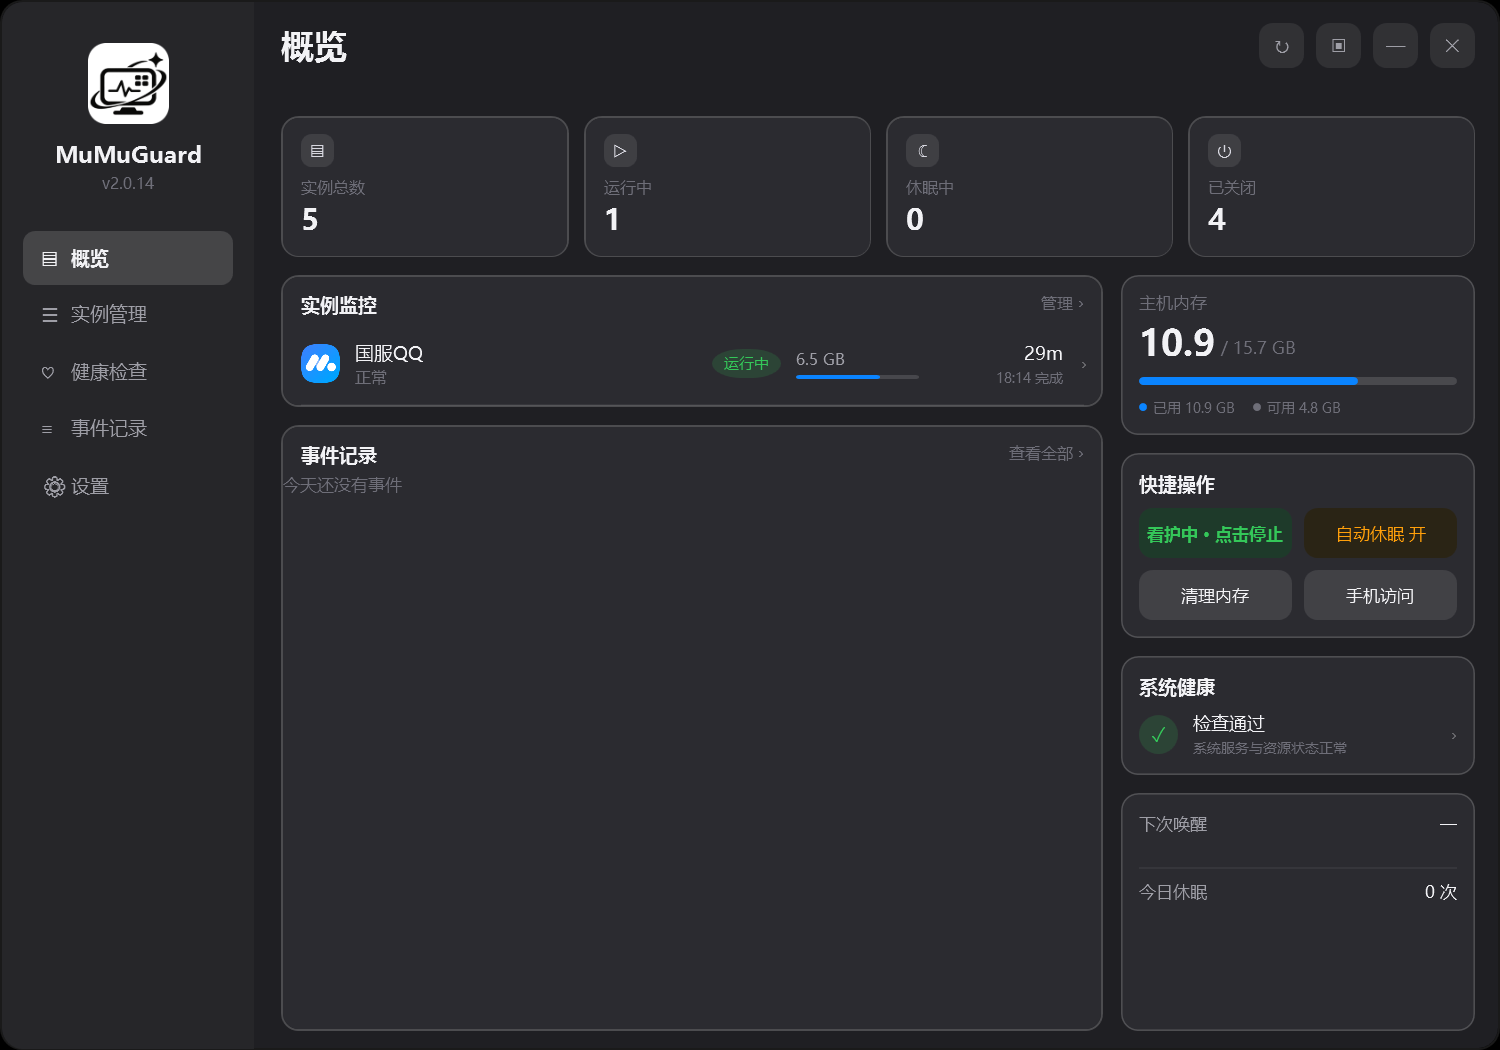
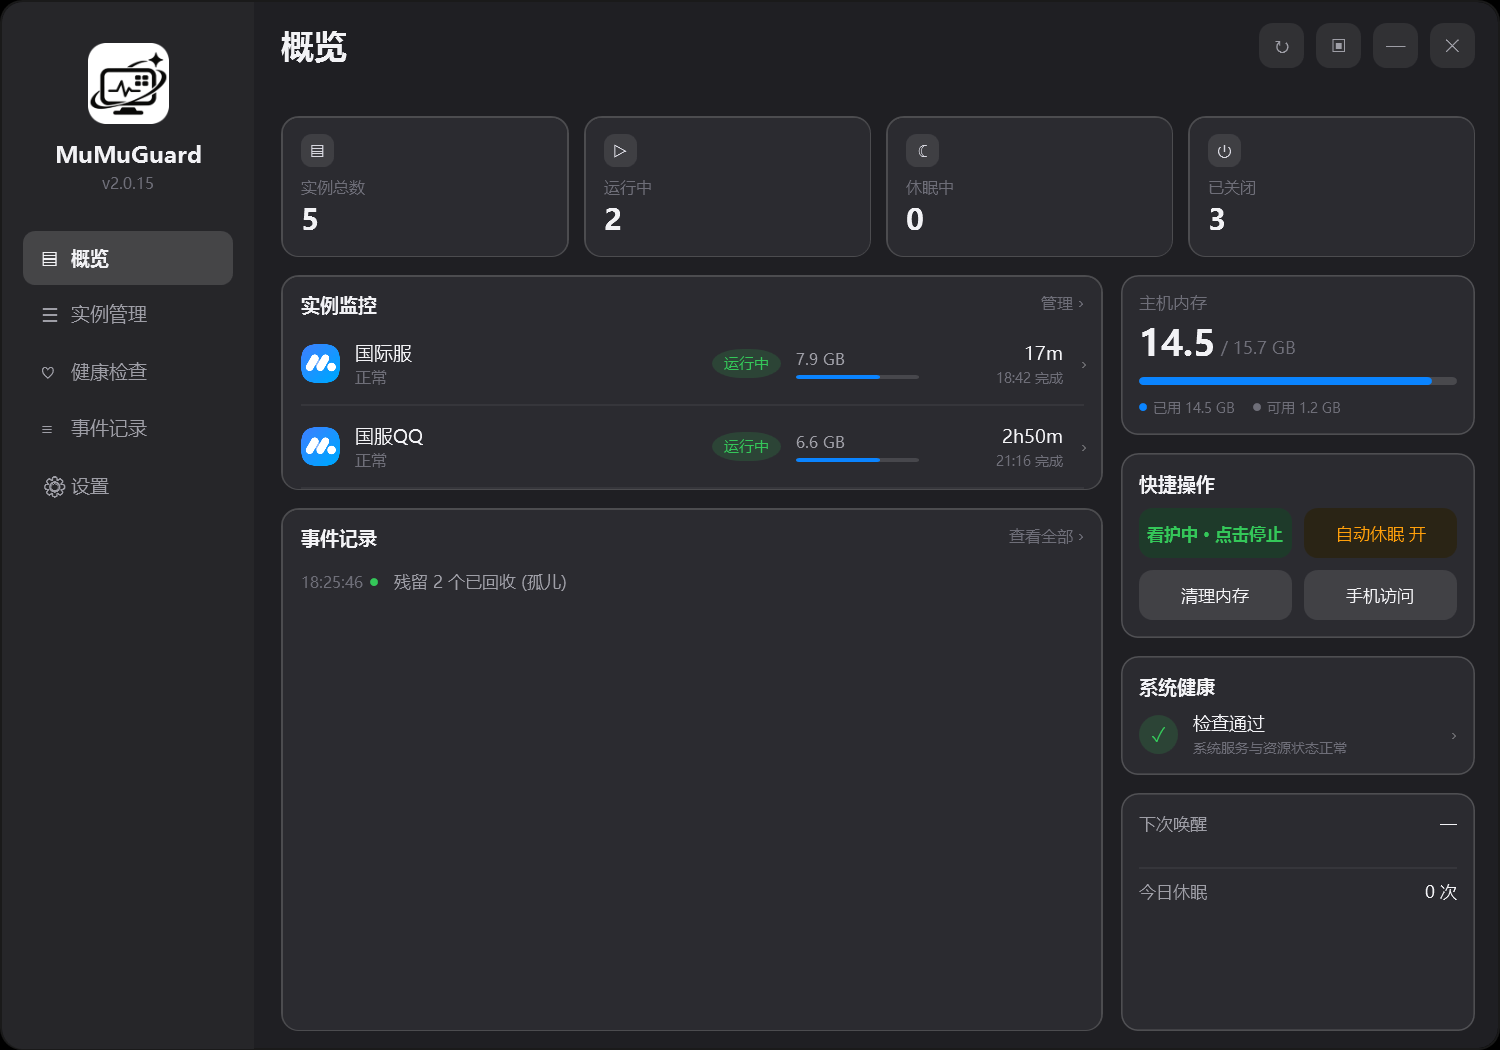
修休眠/升级时间两套口径与设置页点击失效：升级完成时间统一走 90-pure 的 Get-UpgradeFromMemoryJson（多账号取最早完成），62-zkq 详情不再单独读当前账号，避免概览/管理/详情/手机时间对不上；Waker 重试改用独立 RetryAt 字段，WakeAt 保持计划唤醒时间不变；实例管理休眠行补上「X 唤醒」；修设置页所有点击无效——GetNewClosure 闭包里访问不到 script: 变量（配置/检测/筛选/保存全坏），改为闭包捕获参数+Get-CfgValue 等小函数；修局域网刷新令牌导致端口漂移（停止时关监听并等端口释放，实测端口稳定、旧令牌 4

diff --git a/docs/remote/index.html b/docs/remote/index.html
@@ -52,6 +52,8 @@
   .toast.show{opacity:1}
   footer{text-align:center;color:var(--dim);font-size:11px;margin-top:14px}
   .err{color:var(--red);font-size:12px;padding:6px 0}
+  .stale{margin:0 0 12px;padding:11px 13px;border-radius:11px;background:rgba(255,159,10,.14);border:1px solid rgba(255,159,10,.35);color:#FFCF80;font-size:12.5px;line-height:1.6}
+  .stale span{color:#C9A96A;font-size:11px}
   .sub{padding:0 2px 12px;font-size:11.5px;color:var(--dim)}
   .stats{display:grid;grid-template-columns:repeat(4,1fr);gap:8px;margin-bottom:12px}
   .stat{background:var(--card);border:1px solid var(--line);border-radius:11px;padding:9px 6px;text-align:center}
@@ -77,6 +79,7 @@
 </header>
 
 <div class="sub" id="subLine">正在读取…</div>
+<div class="stale" id="staleTip" style="display:none">数据已停止更新（电脑可能已重新配对）<br><span>请用面板里最新的二维码重新扫码</span></div>
 
 <div class="stats">
   <div class="stat"><b id="statTotal">–</b><span>总数</span></div>
@@ -156,6 +159,26 @@ function setConn(ok, text){
   });
 }
 
+function setStale(bad){
+  const el = document.getElementById('staleTip');
+  if (!el) return;
+  el.style.display = bad ? '' : 'none';
+  staleShown = bad;
+  if (bad) {
+    ['bGuard','bSleep','bClean','bWakeAll'].forEach(id => { const b = document.getElementById(id); if (b) b.disabled = true; });
+  }
+}
+
+// 每 2 秒看一眼：状态多久没更新了 / 指令等回执多久了
+setInterval(function(){
+  const since = lastStateAt || pageOpenedAt;
+  if (connected && Date.now() - since > 15000) { if (!staleShown) setStale(true); }
+  if (pending && Date.now() - pending.at > 12000) {
+    toast('✗ ' + pending.label + '：设备无响应（可能已重新配对）');
+    pending = null;
+  }
+}, 2000);
+
 function connect(){
   if (!UID) {
     document.getElementById('instances').innerHTML = '<div class="err">缺少配对信息，请重新扫码</div>';
@@ -211,18 +234,27 @@ function bufToHex(buf){
 async function send(cmd){
   if (!connected) return;
   if (!KEY) { toast('缺少配对密钥，请重新扫码'); return; }
+  if (pending) { toast('上一条指令还在执行'); return; }
+  const labelMap = { guard: '切换看护', sleep: '切换自动休眠', clean: '清理', wakeall: '唤醒全部' };
+  const label = labelMap[cmd] || '执行';
   try {
     const ts = Math.floor(Date.now() / 1000);
     const key = await ensureKey();
     const sigBuf = await crypto.subtle.sign('HMAC', key, new TextEncoder().encode(cmd + '|' + ts));
+    pending = { cmd: cmd, at: Date.now(), label: label };
     ws.send(PUB(TOPIC_CMD, JSON.stringify({ cmd, ts, sig: bufToHex(sigBuf) })));
-    toast('已发送');
-  } catch(e){ toast('发送失败'); }
+    toast('正在' + label + '…');
+  } catch(e){ pending = null; toast('发送失败'); }
 }
 
 // ---------------- 渲染 ----------------
 function esc(s){ return String(s==null?'':s).replace(/[&<>"]/g, c => ({'&':'&amp;','<':'&lt;','>':'&gt;','"':'&quot;'}[c])); }
 let last = null;
+let lastStateAt = 0;
+const pageOpenedAt = Date.now();
+let staleShown = false;
+let pending = null;
+let lastSeenTs = '';
 
 function toast(msg){
   const t = document.getElementById('toast');
@@ -243,6 +275,20 @@ async function handleState(raw){
   if (!key) return markBad();
   const sig = bufToHex(await crypto.subtle.sign('HMAC', key, new TextEncoder().encode(env.d)));
   if (sig !== env.s.toLowerCase()) return markBad();
+  lastStateAt = Date.now();
+  if (staleShown) setStale(false);
+  // 指令回执：电脑执行完会带一条 last（cmd/ok/msg/ts）
+  try {
+    const stObj = JSON.parse(env.d);
+    const rc = stObj && stObj.last;
+    if (rc && rc.ts && rc.ts !== lastSeenTs) {
+      lastSeenTs = rc.ts;
+      if (pending && rc.cmd === pending.cmd) {
+        toast((rc.ok ? '✓ ' : '✗ ') + (rc.msg || (rc.ok ? '已完成' : '执行失败')));
+        pending = null;
+      }
+    }
+  } catch(e){ }
   render(env.d);
 }
 function markBad(){

diff --git a/README.md b/README.md
@@ -4,7 +4,7 @@
 
 盯着每个实例，掉线自动拉起，等升级时休眠省内存，醒来自动接着跑。
 
-![版本](https://img.shields.io/badge/version-2.0.14-3DDC84)
+![版本](https://img.shields.io/badge/version-2.0.15-3DDC84)
 ![平台](https://img.shields.io/badge/platform-Windows%2010%20%7C%2011-0A0D14)
 ![许可](https://img.shields.io/badge/license-MIT-blue)
 ![QQ 群](https://img.shields.io/badge/QQ%E7%BE%A4-1128379535-12B7F5)
